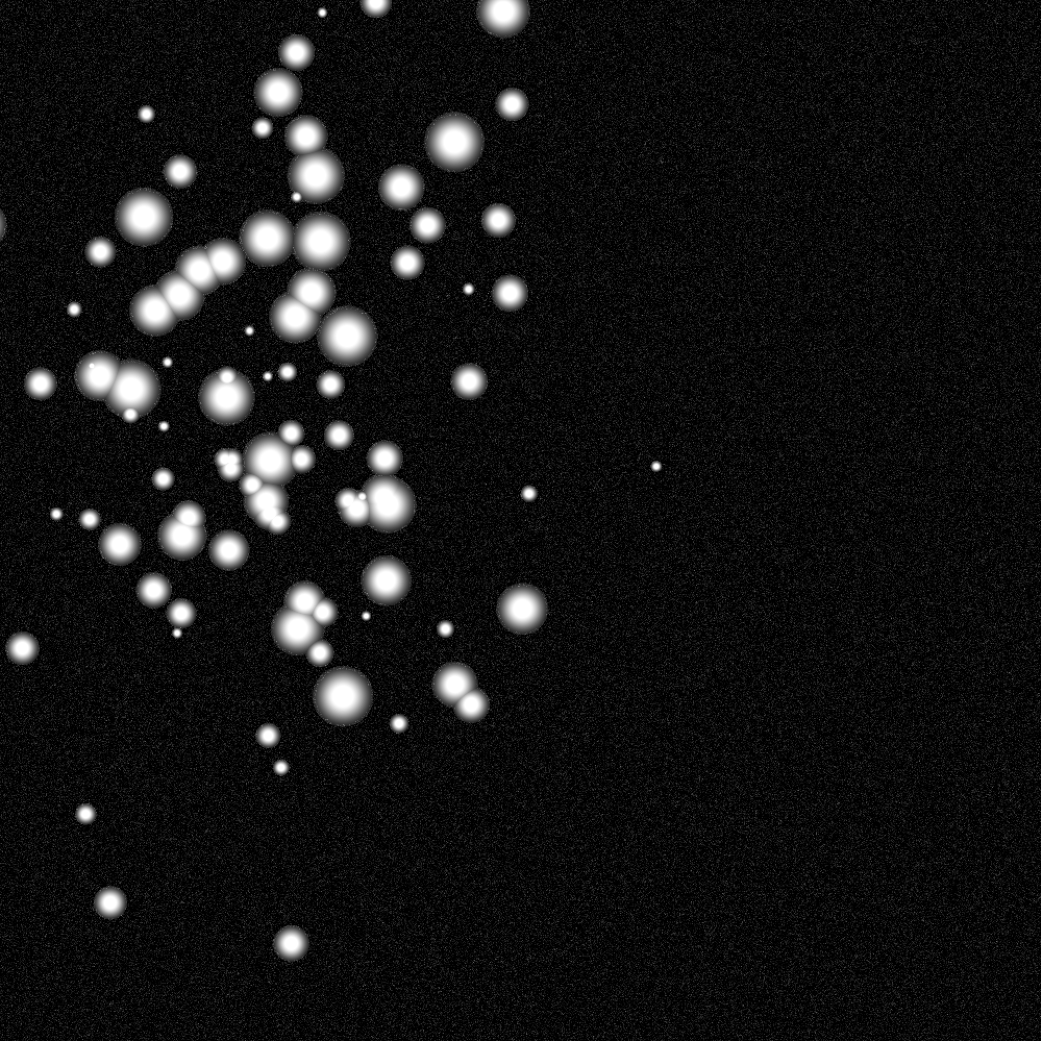
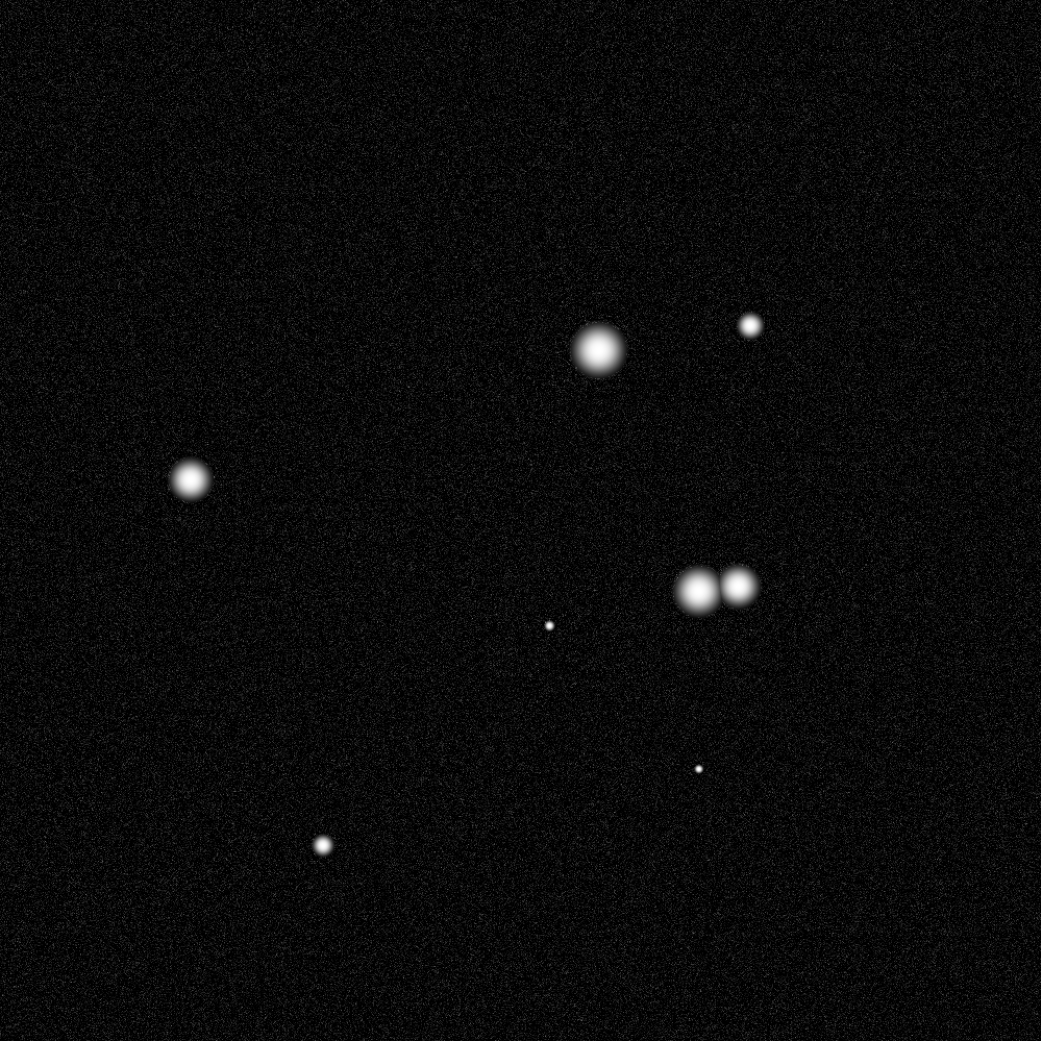
get rid of mie scattering

Changed region(s): [[0.0, 0.0, 1.0, 1.0]]

diff --git a/simulation/sphere.py b/simulation/sphere.py
@@ -1,0 +1,89 @@
+# -----------------------------------------------------------------------------
+# Python & OpenGL for Scientific Visualization
+# www.labri.fr/perso/nrougier/python+opengl
+# Copyright (c) 2018, Nicolas P. Rougier
+# Distributed under the 2-Clause BSD License.
+# -----------------------------------------------------------------------------
+from math import sqrt
+
+import numpy as np
+from glumpy import app, gloo, gl
+
+
+def mie(g, c):
+    a = (1.0 - g ** 2) * (1.0 + c ** 2)
+    b = 1.0 + g ** 2 - 2.0 * g * c
+    b *= sqrt(b)
+    b *= 2.0 + g ** 2
+    return (3.0 / 8.0 / np.pi) * (a / b)
+
+
+for c in np.linspace(-1, 1, 20):
+    print(mie(.75, c))
+
+vertex = """
+    uniform vec2 resolution;
+    attribute vec2 center;
+    attribute float radius;
+    varying vec2 v_center;
+    varying float v_radius;
+    void main()
+    {
+        v_radius = radius;
+        v_center = center;
+        gl_PointSize = 2.0 + ceil(2.0*radius);
+        gl_Position = vec4(2.0*center/resolution-1.0, 0.0, 1.0);
+    } """
+
+fragment = """
+  varying vec2 v_center;
+  varying float v_radius;
+  const float PI = 3.14159265359;
+  float phase_mie(float g, float c) {
+    float gg = g * g;
+    float cc = c * c;
+    
+    float a = (1.0 - gg) * (1.0 + cc);
+
+    float b = 1.0 + gg - 2.0 * g * c;
+    b *= sqrt(b);
+    b *= 2.0 + gg;
+
+    return (3.0 / 8.0 / PI) * a / b;
+  }
+  void main()
+  {
+      vec2 p = (gl_FragCoord.xy - v_center)/v_radius;
+      float z = 1.0 - length(p);
+      if (z < 0.0) discard;
+
+      vec3 color = vec3(1.0, 0.0, 0.0);
+      vec3 normal = normalize(vec3(p.xy, z));
+      vec3 direction = normalize(vec3(1,1,1));
+      float diffuse = max(0.0, dot(direction, normal));
+      float mie = phase_mie(-0.75, 0.0);
+      float specular = pow(diffuse, 24.0);
+      gl_FragColor = vec4(max(mie*diffuse*color, specular*vec3(1.0)), 1.0);
+  } """
+
+V = np.zeros(1, [("center", np.float32, 2), ("radius", np.float32, 1)])
+V["center"] = 256, 256
+V["radius"] = 250
+
+window = app.Window(512, 512, color=(1, 1, 1, 1))
+points = gloo.Program(vertex, fragment)
+points.bind(V.view(gloo.VertexBuffer))
+
+
+@window.event
+def on_resize(width, height):
+    points["resolution"] = width, height
+
+
+@window.event
+def on_draw(dt):
+    window.clear()
+    points.draw(gl.GL_POINTS)
+
+
+app.run()

diff --git a/simulation/simulate.py b/simulation/simulate.py
@@ -25,7 +25,7 @@ def create_circular_mask(h, w, center=None, radius=None):
 
 if __name__ == "__main__":
     window_size = 1000
-    V = np.zeros(100, [("center", np.float32, 3), ("radius", np.float32, 1)])
+    V = np.zeros(10, [("center", np.float32, 3), ("radius", np.float32, 1)])
     cluster_mean = np.random.uniform(window_size // 4, 3 * window_size // 4, size=2)
     cluster_std = np.diag(
         np.random.uniform((window_size // 8) ** 2, (window_size // 4) ** 2, size=2)
@@ -68,14 +68,14 @@ if __name__ == "__main__":
         )
         png.from_array(framebuffer, "RGB").save("screenshot.png")
 
-    points = gloo.Program("vertex.glsl", "fragment_shader.glsl")
+    points = gloo.Program("vertex_shader.glsl", "fragment_shader.glsl")
     points.bind(V.view(gloo.VertexBuffer))
 
     framebuffer = np.zeros((window.height, 3 * window.width), dtype=np.uint8)
     app.run(framecount=1)
 
     im = imread("screenshot.png", as_gray=True)
-    make_figure(im).show()
+    # make_figure(im).show()
     background = np.zeros_like(im)
     noisy = random_noise(background, mode="gaussian")
     noisy = random_noise(noisy, mode="poisson")
